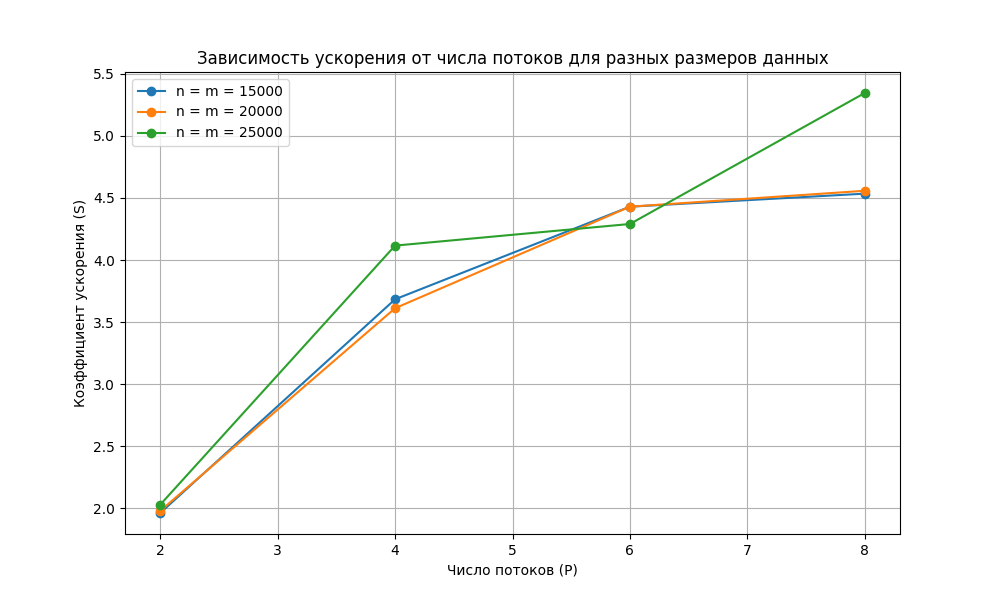
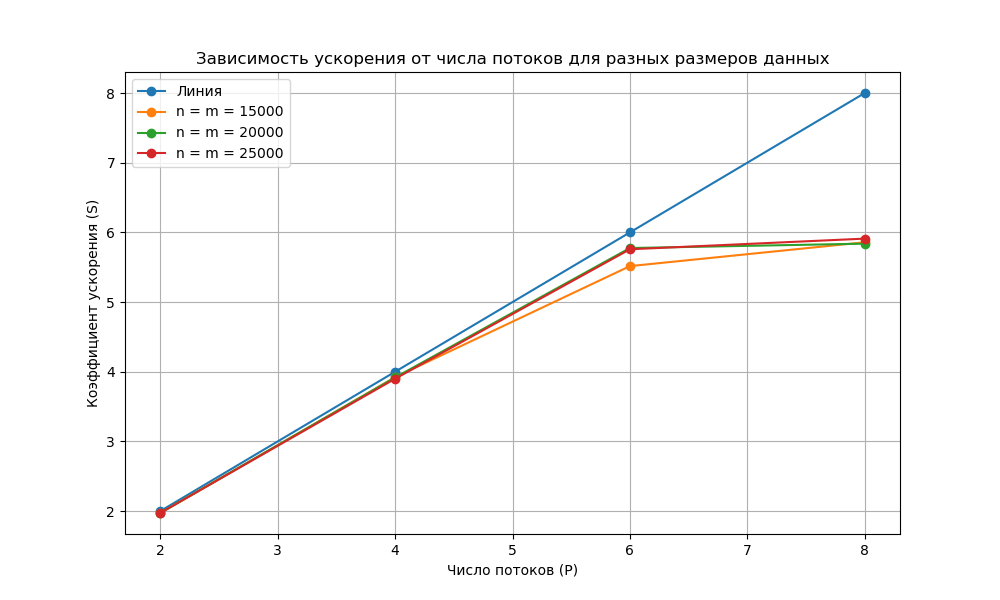
312313131

diff --git a/pct-spring-lab2/DGEMV.c b/pct-spring-lab2/DGEMV.c
@@ -4,8 +4,8 @@
 #include <stdlib.h>
 #include <sys/time.h>
 
-#define THREADS 4
-
+// #define THREADS 4
+int THREADS = 2;
 int m = 15000, n = 15000;
 
 void *xmalloc(size_t size) {
@@ -89,24 +89,36 @@ double run_serial() {
 }
 
 int main(int argc, char **argv) {
-    printf("Matrix-vector (c[m] = a[m, n] * b[n]; m = %d, n = %d)\n", m, n);
-    printf("Memory used: %" PRIu64 " MiB\n", ((m * n + m + n) * sizeof(double)) >> 20);
-    printf("15 000 --> %d threads\n", THREADS);
-    printf("C: %.6f\n\n", run_serial()/run_parallel());
+    for (; THREADS <= 12; THREADS *= 6)
+    {
+      for (int k = 15000; k <= 25000 ; k += 5000){
+        m = k;
+        n = k;
+        double res = run_serial()/run_parallel();
+        printf("Matrix-vector (c[m] = a[m, n] * b[n]; m = %d, n = %d)\n", m, n);
+        printf("Memory used: %" PRIu64 " MiB\n", ((m * n + m + n) * sizeof(double)) >> 20);
+        printf("%d--> %d threads\n",m, THREADS);
+        printf("C: %.6f\n\n", res);
+      }
+    }
+    // printf("Matrix-vector (c[m] = a[m, n] * b[n]; m = %d, n = %d)\n", m, n);
+    // printf("Memory used: %" PRIu64 " MiB\n", ((m * n + m + n) * sizeof(double)) >> 20);
+    // printf("15 000 --> %d threads\n", THREADS);
+    // printf("C: %.6f\n\n", run_serial()/run_parallel());
 
-    m = 20000;
-    n = 20000;
-    printf("Matrix-vector (c[m] = a[m, n] * b[n]; m = %d, n = %d)\n", m, n);
-    printf("Memory used: %" PRIu64 " MiB\n", ((m * n + m + n) * sizeof(double)) >> 20);
-    printf("20 000 --> %d threads\n", THREADS);
-    printf("C: %.6f\n\n", run_serial()/run_parallel());
+    // m = 20000;
+    // n = 20000;
+    // printf("Matrix-vector (c[m] = a[m, n] * b[n]; m = %d, n = %d)\n", m, n);
+    // printf("Memory used: %" PRIu64 " MiB\n", ((m * n + m + n) * sizeof(double)) >> 20);
+    // printf("20 000 --> %d threads\n", THREADS);
+    // printf("C: %.6f\n\n", run_serial()/run_parallel());
 
-    m = 20000;
-    n = 20000;
-    printf("Matrix-vector (c[m] = a[m, n] * b[n]; m = %d, n = %d)\n", m, n);
-    printf("Memory used: %" PRIu64 " MiB\n", ((m * n + m + n) * sizeof(double)) >> 20);
-    printf("25 000 --> %d threads\n", THREADS);
-    printf("C: %.6f\n", run_serial()/run_parallel());
+    // m = 20000;
+    // n = 20000;
+    // printf("Matrix-vector (c[m] = a[m, n] * b[n]; m = %d, n = %d)\n", m, n);
+    // printf("Memory used: %" PRIu64 " MiB\n", ((m * n + m + n) * sizeof(double)) >> 20);
+    // printf("25 000 --> %d threads\n", THREADS);
+    // printf("C: %.6f\n", run_serial()/run_parallel());
 
     return 0;
 }

diff --git a/pct-spring-lab2/gnuplot/graph.py b/pct-spring-lab2/gnuplot/graph.py
@@ -2,16 +2,22 @@ import matplotlib.pyplot as plt
 
 # Значения коэффициентов ускорения для различных n = m и P потоков
 data = {
-    (15000, 15000): {2: 1.962364, 4: 3.683657, 6: 4.429553, 8: 4.534488},
-    (20000, 20000): {2: 1.979257, 4: 3.611642, 6: 4.429564, 8: 4.557672},
-    (25000, 25000): {2: 2.029254, 4: 4.115957, 6: 4.290153, 8: 5.345166}
+    (0, 0): {2: 2, 4: 4, 6: 6, 8: 8},
+    (15000, 15000): {2: 1.973411, 4: 3.921612, 6: 5.516074, 8: 5.858180},
+    (20000, 20000): {2: 1.973315, 4: 3.917851, 6: 5.775410, 8: 5.838232},
+    (25000, 25000): {2: 1.973441, 4: 3.899721, 6: 5.757705, 8: 5.910381}
+    
+    
 }
 
 # Построение графика
 plt.figure(figsize=(10, 6))
 
 for (n, m), acceleration in data.items():
-    plt.plot(list(acceleration.keys()), list(acceleration.values()), marker='o', label=f'n = m = {n}')
+    if m == 0:
+        plt.plot(list(acceleration.keys()), list(acceleration.values()), marker='o', label=f'Линия')
+    else:
+        plt.plot(list(acceleration.keys()), list(acceleration.values()), marker='o', label=f'n = m = {n}')
 
 plt.xlabel('Число потоков (P)')
 plt.ylabel('Коэффициент ускорения (S)')
